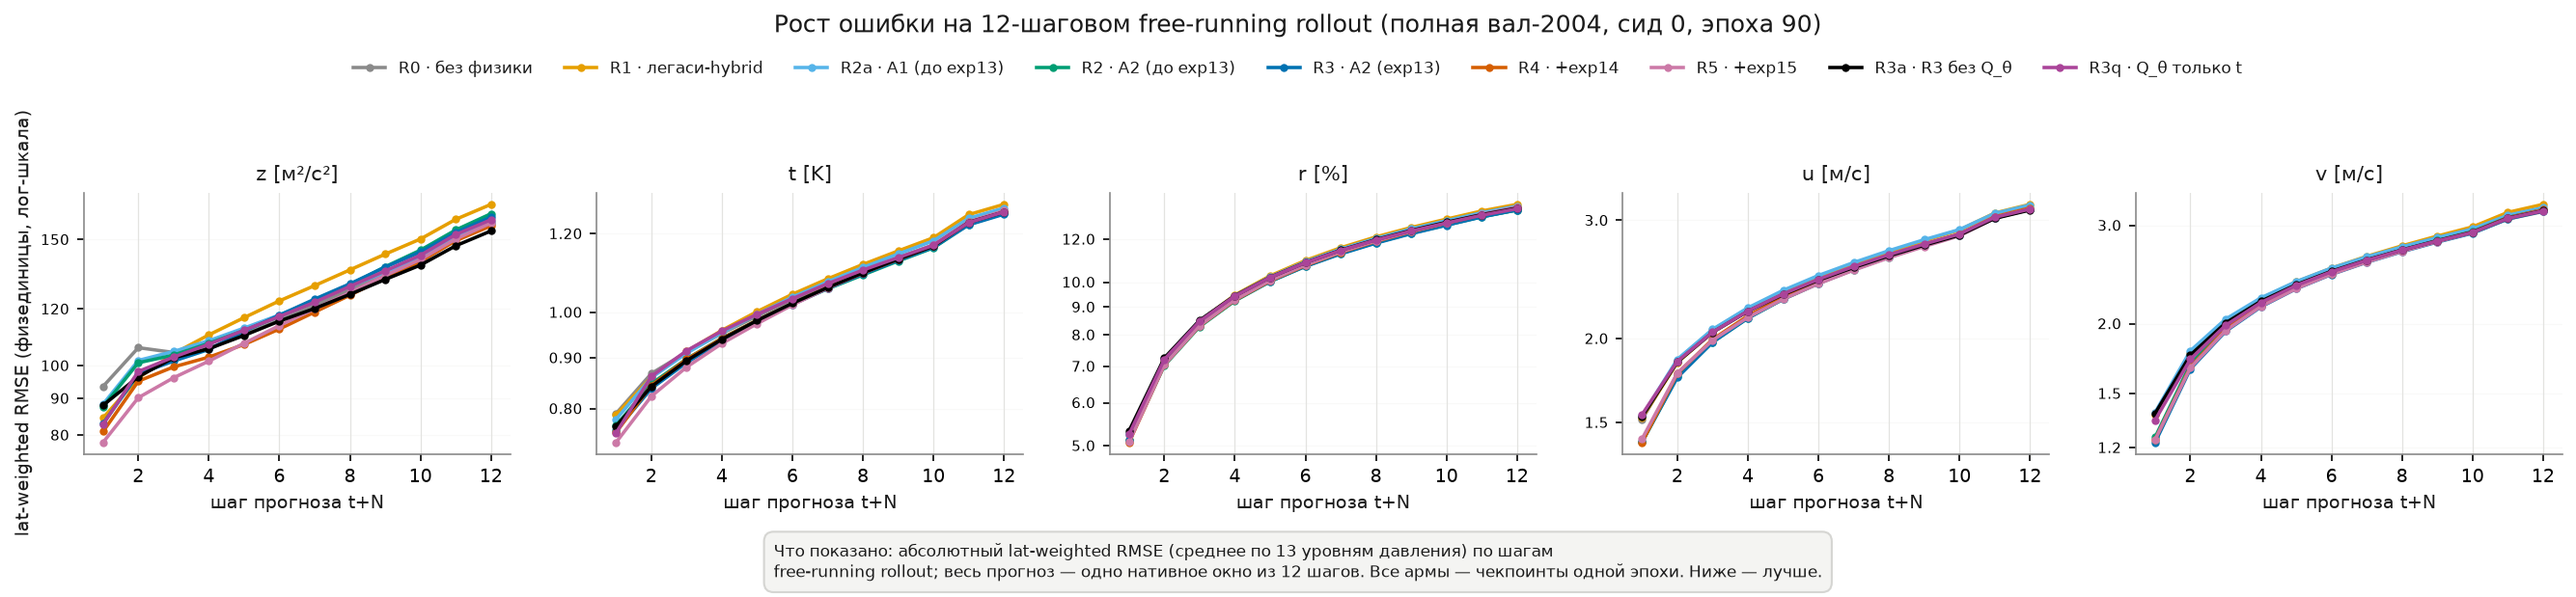
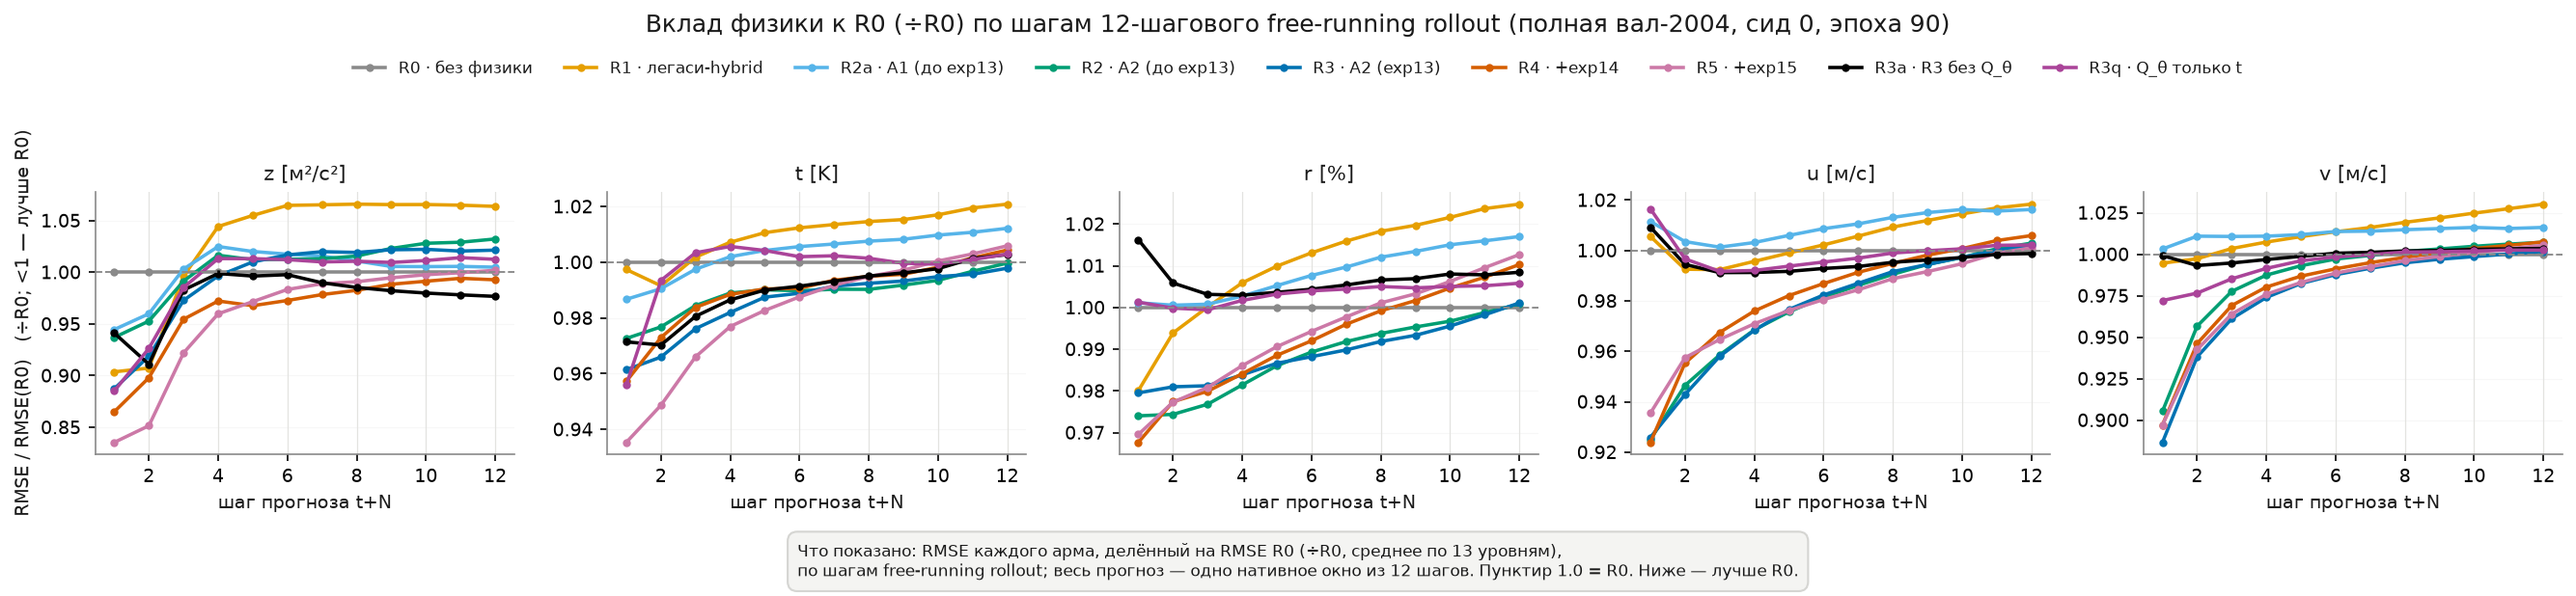
feat(exp16): abs-RMSE rollout figure as ratio to R0 (÷R0) to separate arms
Absolute RMSE bunched all 9 arms together in t/r/u/v (1-2% spread lost under the
error growth with lead). render_abs_rmse now plots RMSE_arm / RMSE_R0 per step:
R0 = flat 1.0 reference, autoscaled ratio magnifies each arm's contribution on
every variable, not just z. Linear Y (ratio centred on 1.0; log dropped — no
benefit at ±10%). Regenerated t=6 and t=12; README note updated.

diff --git a/docs/experiments/16_model_ablation_ladder/rollout_figures.py b/docs/experiments/16_model_ablation_ladder/rollout_figures.py
@@ -4,8 +4,8 @@
 channels, n_samples). Выход — три фигуры в стиле инференс-диагностики
 предыдущего поколения абляции:
 
-  * ``fig_rollout_abs_rmse.png`` — абсолютный lat-weighted RMSE (физединицы)
-    по шагам 1..12, панель на переменную (среднее по 13 уровням), линия на арм;
+  * ``fig_rollout_abs_rmse.png`` — RMSE арма относительно R0 (÷R0, среднее по 13
+    уровням) по шагам 1..12, панель на переменную, линия на арм (R0 = 1.0);
   * ``fig_rollout_delta_steps.png`` — средняя по всем 69 каналам Δ% к R0 по
     шагам, free-running vs teacher-forced;
   * ``fig_rollout_heatmap.png`` — Δ% к R0 (free-running) по
@@ -23,11 +23,6 @@ import numpy as np
 
 matplotlib.use("Agg")
 import matplotlib.pyplot as plt  # noqa: E402
-from matplotlib.ticker import LogLocator, NullLocator, ScalarFormatter  # noqa: E402
-
-# Деления лог-оси RMSE: дробные subs дают метки и внутри неполных декад
-# (напр. 120, 150 между 100 и 200; 0.8, 0.9, 1.2 у температуры).
-_LOG_SUBS = (1.0, 1.2, 1.5, 2.0, 3.0, 4.0, 5.0, 6.0, 7.0, 8.0, 9.0)
 
 HERE = Path(__file__).resolve().parent
 ROLLOUT_DIR = HERE / "results" / "rollout"
@@ -218,40 +213,50 @@ def add_caption(fig, text: str, y: float = -0.02) -> None:
 
 
 def render_abs_rmse(runs: dict[str, dict], dst: Path) -> None:
-    """Панель на переменную: абсолютный RMSE (среднее по уровням) по шагам."""
+    """Панель на переменную: RMSE арма относительно R0 (÷R0) по шагам rollout.
+
+    Абсолютный RMSE в t/r/u/v почти не различает армы (спред 1–2 % тонет в росте
+    ошибки с лидом), поэтому нормируем на арм без физики: ``RMSE_arm / RMSE_R0``.
+    R0 — линия 1.0; автомасштаб отношения магнифицирует вклад каждого арма.
+    """
+    if BASELINE not in runs:
+        return
     arms = [arm for arm in ARM_ORDER if arm in runs]
     n_steps = runs[BASELINE]["rmse_free"].shape[0]
     boundary = window_boundary(runs)
     epoch = epoch_label(runs)
     fig, axes = plt.subplots(1, len(UPPER_VARS), figsize=(3.6 * len(UPPER_VARS), 3.2))
     steps = np.arange(1, n_steps + 1)
+    base = {
+        var: level_matrix(runs[BASELINE]["rmse_free"], runs[BASELINE]["channels"], var)[0].mean(
+            axis=0
+        )
+        for var in UPPER_VARS
+    }
     for ax, var in zip(axes, UPPER_VARS, strict=True):
         for arm in arms:
             matrix, _ = level_matrix(runs[arm]["rmse_free"], runs[arm]["channels"], var)
             ax.plot(
                 steps,
-                matrix.mean(axis=0),
+                matrix.mean(axis=0) / base[var],
                 color=ARM_COLORS[arm],
                 lw=1.7,
                 marker="o",
                 ms=3,
                 label=ARM_LABELS[arm],
             )
+        ax.axhline(1.0, color=MUTED, lw=0.9, ls="--")
         if boundary is not None:
             ax.axvline(boundary + 0.5, color=MUTED, lw=0.9, ls=":")
         ax.set_title(f"{var} [{VAR_UNITS[var]}]", fontsize=10)
         ax.set_xlabel("шаг прогноза t+N")
         ax.spines["top"].set_visible(False)
         ax.spines["right"].set_visible(False)
-        ax.set_yscale("log")
-        ax.yaxis.set_major_locator(LogLocator(base=10.0, subs=_LOG_SUBS))
-        ax.yaxis.set_major_formatter(ScalarFormatter())
-        ax.yaxis.set_minor_locator(NullLocator())
-        ax.tick_params(axis="y", labelsize=7)
-        ax.grid(True, which="major", axis="y", alpha=0.2)
-    axes[0].set_ylabel("lat-weighted RMSE (физединицы, лог-шкала)")
+        ax.grid(True, axis="y", alpha=0.25)
+    axes[0].set_ylabel("RMSE / RMSE(R0)   (÷R0; <1 — лучше R0)")
     fig.suptitle(
-        f"Рост ошибки на {n_steps}-шаговом free-running rollout (полная вал-2004, сид 0, {epoch})",
+        f"Вклад физики к R0 (÷R0) по шагам {n_steps}-шагового free-running rollout "
+        f"(полная вал-2004, сид 0, {epoch})",
         fontsize=12,
         y=1.12,
     )
@@ -274,8 +279,8 @@ def render_abs_rmse(runs: dict[str, dict], dst: Path) -> None:
     )
     add_caption(
         fig,
-        "Что показано: абсолютный lat-weighted RMSE (среднее по 13 уровням давления) по шагам\n"
-        f"free-running rollout; {window_note}. Все армы — чекпоинты одной эпохи. Ниже — лучше.",
+        "Что показано: RMSE каждого арма, делённый на RMSE R0 (÷R0, среднее по 13 уровням),\n"
+        f"по шагам free-running rollout; {window_note}. Пунктир 1.0 = R0. Ниже — лучше R0.",
     )
     fig.savefig(dst, bbox_inches="tight")
     plt.close(fig)

diff --git a/docs/experiments/16_model_ablation_ladder/README.md b/docs/experiments/16_model_ablation_ladder/README.md
@@ -307,7 +307,7 @@ CPU-ноды: 7 армов = 56 мин) → `results/rollout/*.npz` → `rollout
 Сверка протокола: шаги 1–6 R0 совпали с Comet `RMSE_*_first/last` @эп. 18
 с точностью батч-агрегации (z500: 53.45 vs 53.58; t850: 0.957 vs 0.961).
 
-Фигуры: `fig_rollout_abs_rmse.png` (абсолютный рост ошибки),
+Фигуры: `fig_rollout_abs_rmse.png` (RMSE ÷ R0 по шагам, R0 = 1.0),
 `fig_rollout_delta_steps.png` (Δ% к R0 по шагам, free vs TF),
 `fig_rollout_heatmap.png` (Δ% по [уровень × шаг × арм]).
 
